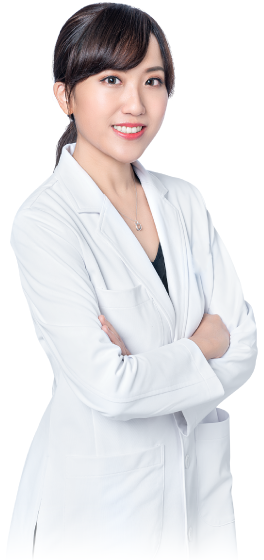
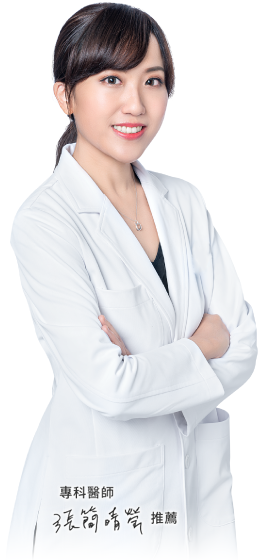
dsa

Changed region(s): [[0.2121, 0.85, 0.4545, 0.9714], [0.5758, 0.9107, 0.6667, 0.9411], [0.4848, 0.9107, 0.5455, 0.9714]]

diff --git a/css/style.css b/css/style.css
@@ -254,10 +254,13 @@ body{
 .banner .item.item_ani{
     right: -70%;
 }
-.banner .name{
+.banner .mb_point{
     width: 100%;
     height: auto;
     transition: all .7s;
+    margin-top: -10px;
+    position: relative;
+    z-index: 10;
 }
 .header{
     width: 100%;
@@ -619,6 +622,21 @@ body{
     left: 0;
     bottom: 10%;
     z-index: 6;
+    animation: btn_ani 1s ease-out infinite;
+    animation-fill-mode: both;
+}
+@keyframes btn_ani {
+    0% {
+        left: 0;
+    }
+
+    50% {
+        left: 5%;
+    }
+
+    100% {
+        left: 0;
+    }
 }
 .mb_btn .prev{
     width: 50px;
@@ -687,6 +705,7 @@ body{
     letter-spacing: 5px;
     color: #3e3a39;
     margin-top: -55px;
+    text-shadow: 0 0 5px rgba(255, 255, 255);
 }
 .sales .sales_content .sales_logo_ctn{
     width: 100%;
@@ -813,19 +832,6 @@ body{
     max-width: 100%;
     height: auto;
 }
-@keyframes arr_down {
-    0% {
-        bottom: 5%;
-    }
-
-    50% {
-        bottom: 10%;
-    }
-
-    100% {
-        bottom: 5%;
-    }
-}
 .mbnone{
     display: block;
 }
@@ -839,13 +845,15 @@ body{
     display: none;
 }
 .mb_banner{
-    width: 100%;
+    width: 168%;
     display: flex;
     transition: all .7s;
+    margin-top: -101px;
 }
 .mb_people{
-    width: 30%;
+    width: 25%;
     position: relative;
+    margin-top: 100px;
     left: 0;
     transition: all .7s;
 }
@@ -853,9 +861,9 @@ body{
     left: -50%;
 }
 .mb_item{
-    width: 70%;
+    width: 80%;
     position: relative;
-    right: 0;
+    right: 120px;
     transition: all .7s;
 }
 .mb_item.item_ani{
@@ -942,7 +950,7 @@ body{
         position: relative;
         top: 0;
         left: 0;
-        margin-top: -75px;
+        margin-top: -95px;
     }
     .banner .item{
         width: 100%;

diff --git a/index.html b/index.html
@@ -77,9 +77,10 @@
           <div class="mb_banner">
             <div class="mb_people people_ani">
               <img class="people" src="images/mb_people.png" alt="">
-              <img class="name" src="images/mb_name.png" alt="">
             </div>
-            <div class="mb_item item_ani"><img class="item" src="images/m_item.png" alt=""></div>
+            <div class="mb_item item_ani">
+              <img class="item" src="images/m_item.png" alt="">
+            </div>
           </div>
         </div>
       </div>
